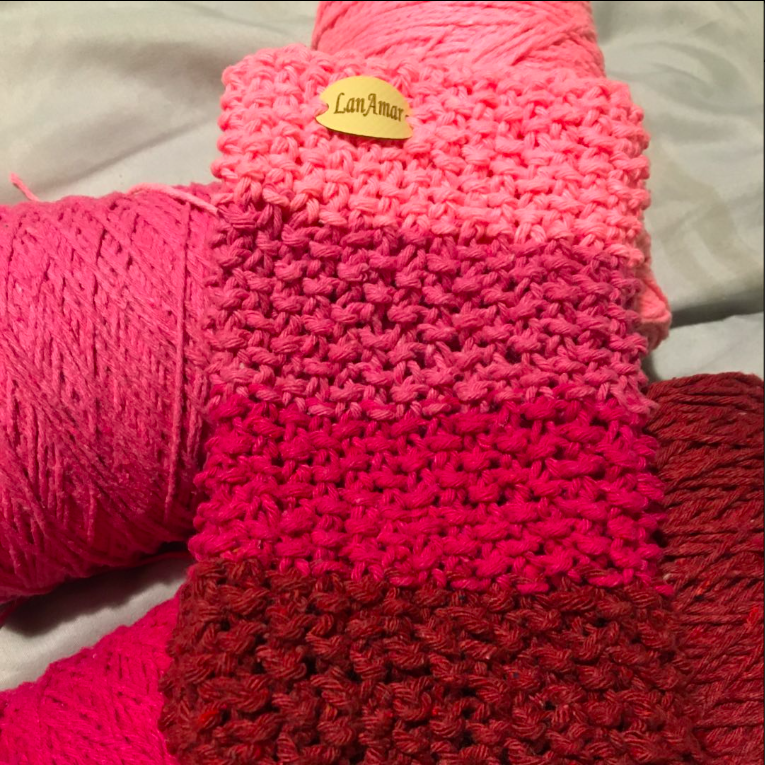
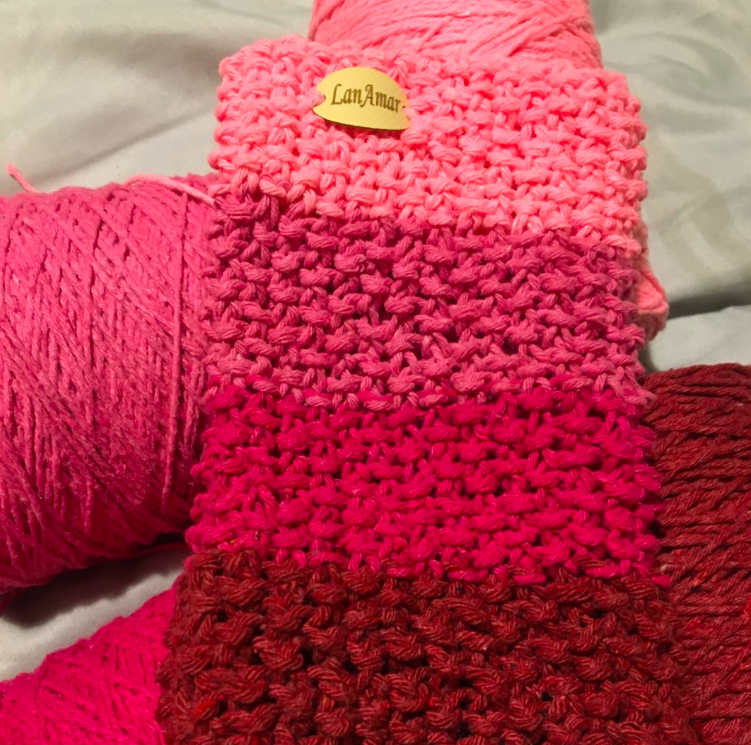
cambio de imagen

diff --git a/index.html b/index.html
@@ -7,7 +7,7 @@
 </head>
 <body>
   <section>
-    <img src="" alt="">
+    <img src="assets/img/cuello.png" alt="Cuello de lana">
   </section>  
     
 </body>
